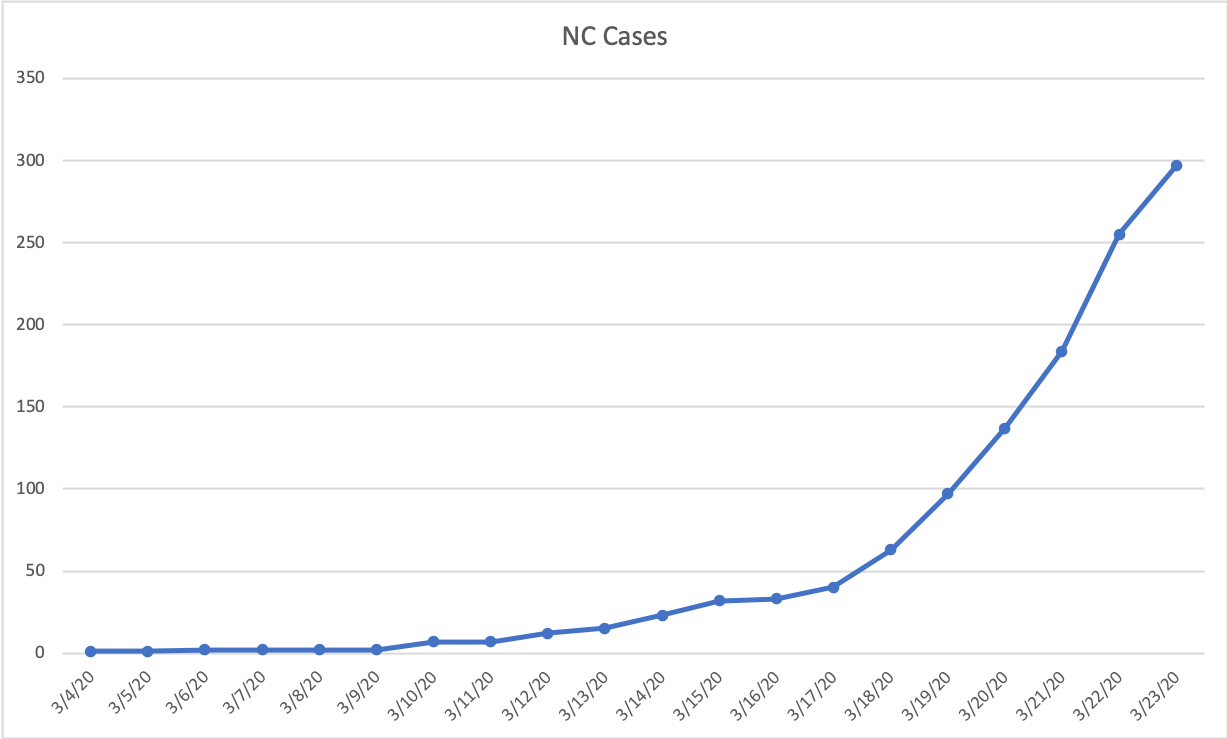
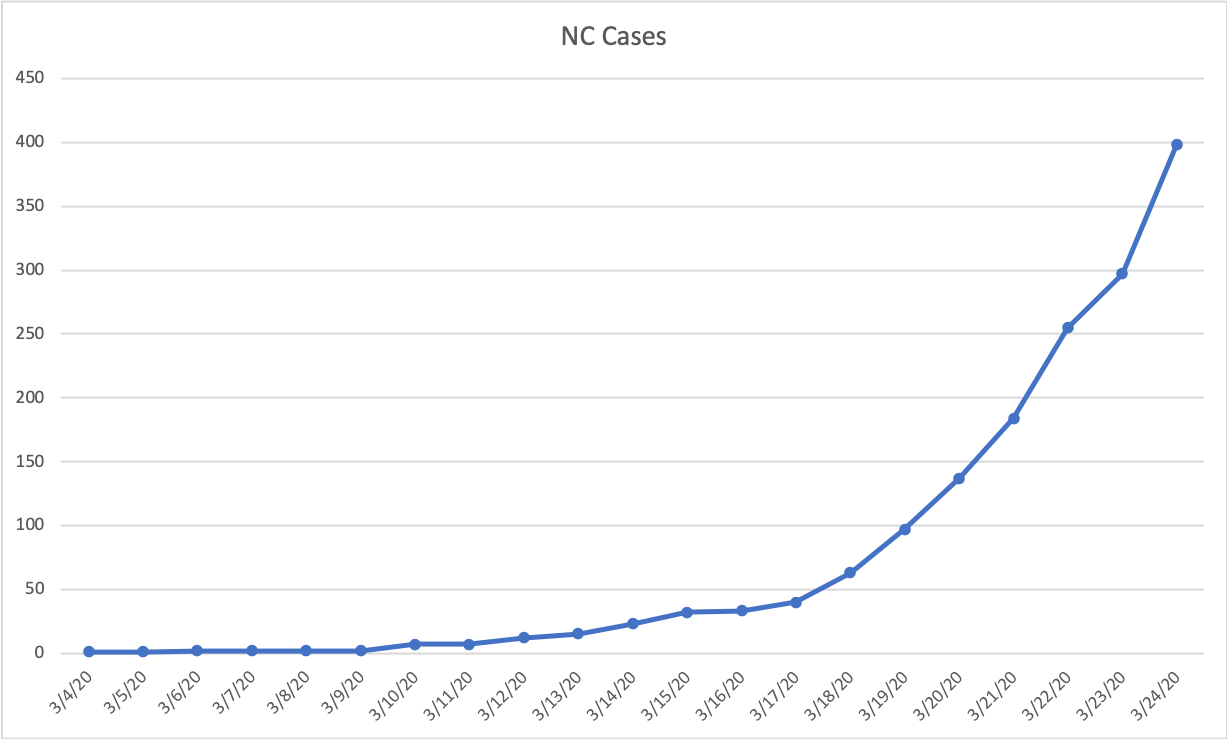
Daily update

diff --git a/README.md b/README.md
@@ -1,7 +1,7 @@
 # COVID-19 NC Case Growth
 Visualizing COVID-19 Case Growth in NC
 
-> *Last Updated:* 3/23/20 at 3:00 PM ET
+> *Last Updated:* 3/24/20 at 11:15 AM ET
 
 > *Data Source:* https://covidtracking.com
 
